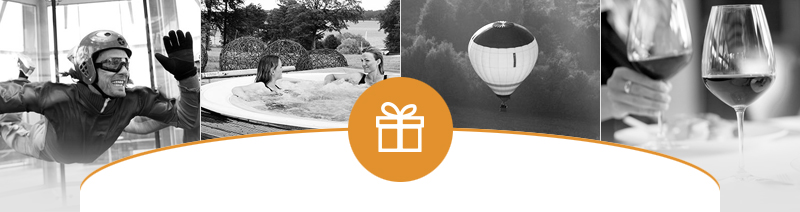
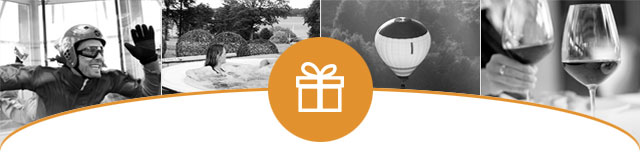
updated template; adjusted top and bottom image width

diff --git a/dgda.html b/dgda.html
@@ -1,0 +1,202 @@
+<!DOCTYPE html PUBLIC "-//W3C//DTD HTML 4.01 Transitional//EN"
+   "http://www.w3.org/TR/html4/loose.dtd">
+
+<html lang="en">
+<head>
+	<meta http-equiv="Content-Type" content="text/html; charset=utf-8">
+	<title>DGDA Newsletter</title>
+	<style>
+	a:hover {
+		text-decoration: underline !important;
+	}
+	table {
+		font-family: Georgia, Times, serif;
+		color: #666666;
+	}
+	td.promocell p { 
+		color:#e1d8c1;
+		font-size:16px;
+		line-height:26px;
+		font-family:'Helvetica Neue',Helvetica,Arial,sans-serif;
+		margin-top:0;
+		margin-bottom:0;
+		padding-top:0;
+		padding-bottom:14px;
+		font-weight:normal;
+	}
+	td.contentblock h4 {
+		color:#444444 !important;
+		font-size:16px;
+		line-height:24px;
+		font-family:'Helvetica Neue',Helvetica,Arial,sans-serif;
+		margin-top:0;
+		margin-bottom:10px;
+		padding-top:0;
+		padding-bottom:0;
+		font-weight:normal;
+	}
+	td.contentblock h4 a {
+		color:#444444;
+		text-decoration:none;
+	}
+	td.contentblock p { 
+	  	color:#888888;
+		font-size:13px;
+		line-height:19px;
+		font-family:'Helvetica Neue',Helvetica,Arial,sans-serif;
+		margin-top:0;
+		margin-bottom:12px;
+		padding-top:0;
+		padding-bottom:0;
+		font-weight:normal;
+	}
+	td.contentblock p a { 
+	  	color:#3ca7dd;
+		text-decoration:none;
+	}
+	@media only screen and (max-device-width: 480px) {
+		div[class="header"] {
+		    font-size: 16px !important;
+		}
+		table[class="table"], td[class="cell"] {
+		    width: 300px !important;
+		}
+		table[class="promotable"], td[class="promocell"] {
+	          width: 325px !important;
+	     }
+		td[class="footershow"] {
+	          width: 300px !important;
+	     }
+		table[class="hide"], img[class="hide"], td[class="hide"] {
+	          display: none !important;
+	     }
+	     img[class="divider"] {
+		      height: 1px !important;
+		 }
+		 td[class="logocell"] {
+			padding-top: 15px !important; 
+			padding-left: 15px !important;
+			width: 300px !important;
+		 }
+	     img[id="screenshot"] {
+	          width: 325px !important;
+	          height: 127px !important;
+	     }
+		img[class="galleryimage"] {
+			  width: 53px !important;
+	          height: 53px !important;
+		}
+		p[class="reminder"] {
+			font-size: 11px !important;
+		}
+		h4[class="secondary"] {
+			line-height: 22px !important;
+			margin-bottom: 15px !important;
+			font-size: 18px !important;
+		}
+	}
+	</style>
+</head>
+<body bgcolor="#e3e3e3" topmargin="0" leftmargin="0" marginheight="0" marginwidth="0" style="-webkit-font-smoothing: antialiased;width:100% !important;background:#e3e3e3;-webkit-text-size-adjust:none;">
+	
+<table width="100%" cellpadding="0" cellspacing="0" border="0" bgcolor="#e3e3e3">
+<tr>
+	<td bgcolor="#e4e4e4" width="100%">
+
+	<table width="640" cellpadding="0" cellspacing="0" border="0" align="center" class="table">
+	<tr>
+		<td width="640" class="cell">
+		
+	   	<table width="640" cellpadding="0" cellspacing="0" border="0" class="table">
+				<tr>
+					<td id="top-img">
+						<img src="images/top-img.jpg" alt="">
+					</td>
+				</tr>
+				<tr>
+					<td id="main-content">
+						<table width="640" cellpadding="0" cellspacing="0" border="0" class="table" bgcolor="#fff">
+							<tr>
+								<td width="5%"></td>
+								<td width="90%" class="contentblock">
+									<h4 class="sans section-title"><singleline label='title'>Tak! Din rabatkode er klar til dig.</singleline></h4>
+									<div><multiline label='Intro'>Du er nu sikret løbende mails med inspiration til de bedste oplevelsesgaver. Vi håber du bliver rigtig glad for det!</multiline></div>
+									<table width="100%">
+						        <tr>
+						          <td width="60%">
+						            <singleline>Og som lovet - din rabatkode:</singleline>
+						          </td>
+						          <td width="40%">
+						            <span id="discount-code" class="sans"><singleline label="Discount Code">[CUSTOM FIELD]</singleline></span>
+						          </td>
+						        </tr>              
+						      </table>
+								</td>
+								<td width="5%"></td>
+							</tr>
+
+							<tr>
+								<td width="5%"></td>
+								<td width="90%" class="contentblock">
+									<h4 class="sans section-title"><singleline>Sådan bruger du din rabatkode</singleline></h4>
+									<repeater>
+				            <table>
+				              <tr>
+				                <td><span class="list-number"><singleline label='Number'>1</singleline></span></td>
+				                <td class="list-text"><multiline label='Text'>Når du har fundet den oplevelse du vil gerne vil købe, så klikker du på knappen som oftest hedder ”Køb som gave”.</multiline></td>
+				              </tr>
+				            </table>
+				          </repeater>
+								</td>
+								<td width="5%"></td>
+							</tr>
+							
+							<tr>
+								<td width="5%"></td>
+								<td width="90%" class="contentblock">
+									<h4 class="sans section-title"><singleline>Hvad kan jeg bruge rabatkoden på?</singleline></h4>
+									<multiline label='Main Text'>Herunder kommer vi med nogle bud på populære oplevelser, valgt ud fra kvalitet og uforglemmelighed :-) Du kan også bare gå direkte til siden og se alle vores udvalgte oplevelser fra hele landet lige her.</multiline>
+
+									<repeater>
+				            <img editable src="images/sample.png" width="100%" label='Experience Image' style="margin-top: 10px;" class="exp-images" alt="" />
+				            <table width="100%" class="image-details" bgcolor="#999" cellpadding="10">
+				              <tr>
+				                <td class="exp-name sans" width="70%">
+				                  <singleline label="Experience Name">Image title</singleline>
+				                    
+				                </td>
+				                <td class="exp-more" width="30%" align="right">
+				                  <img editable src="images/read-more.png" alt="" width="134" label="Read More Image" />
+				                </td>
+				              </tr>
+				            </table>
+				          </repeater>
+
+				          <table width="100%">
+				            <tr><td align="center">
+				              <img editable src="images/dgda-bottom-text.png" width="348" style="margin-top: 20px;" alt="" />                  
+				            </td></tr>
+				            
+				          </table>
+								</td>
+								<td width="5%"></td>
+							</tr>
+						</table>
+					</td>
+				</tr>
+				<tr>
+					<td id="footer">
+						<img src="images/bottom-img.jpg" alt="">
+					</td>
+				</tr>
+			</table>
+	
+		</td>
+	</tr>
+	</table>
+</td>
+</tr>
+</table> 	   			     	 
+
+</body>
+</html>
